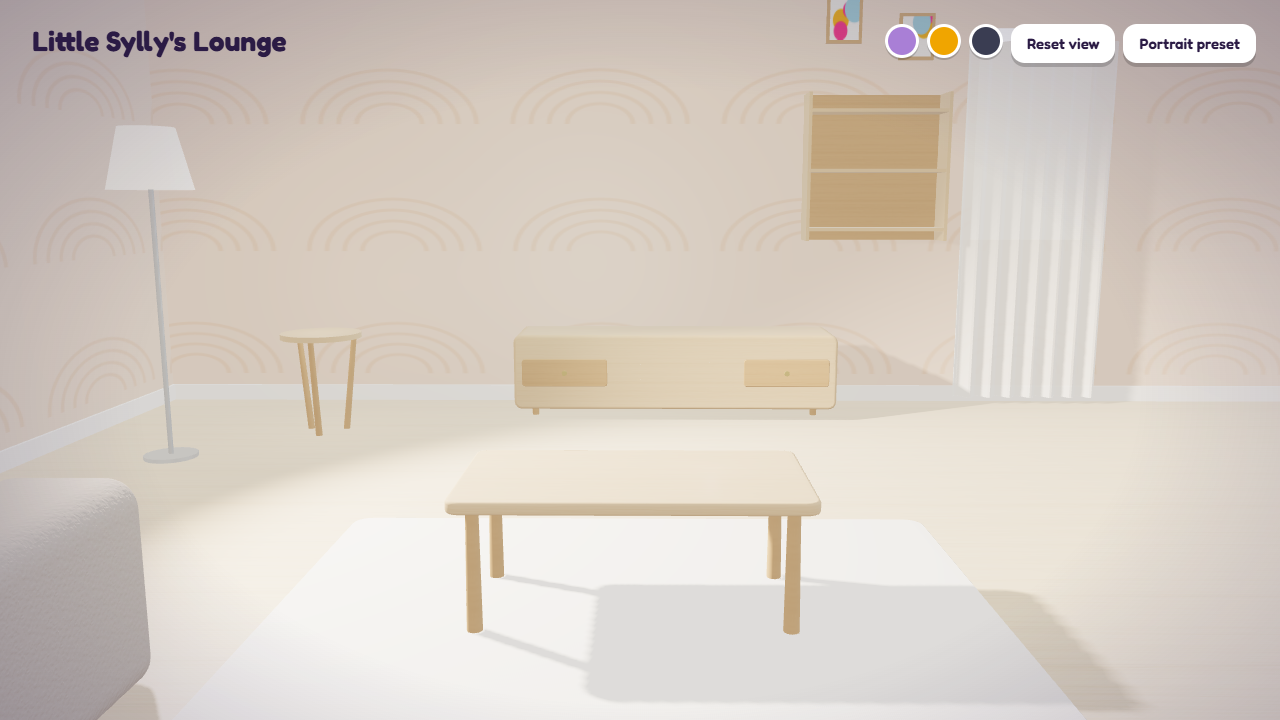
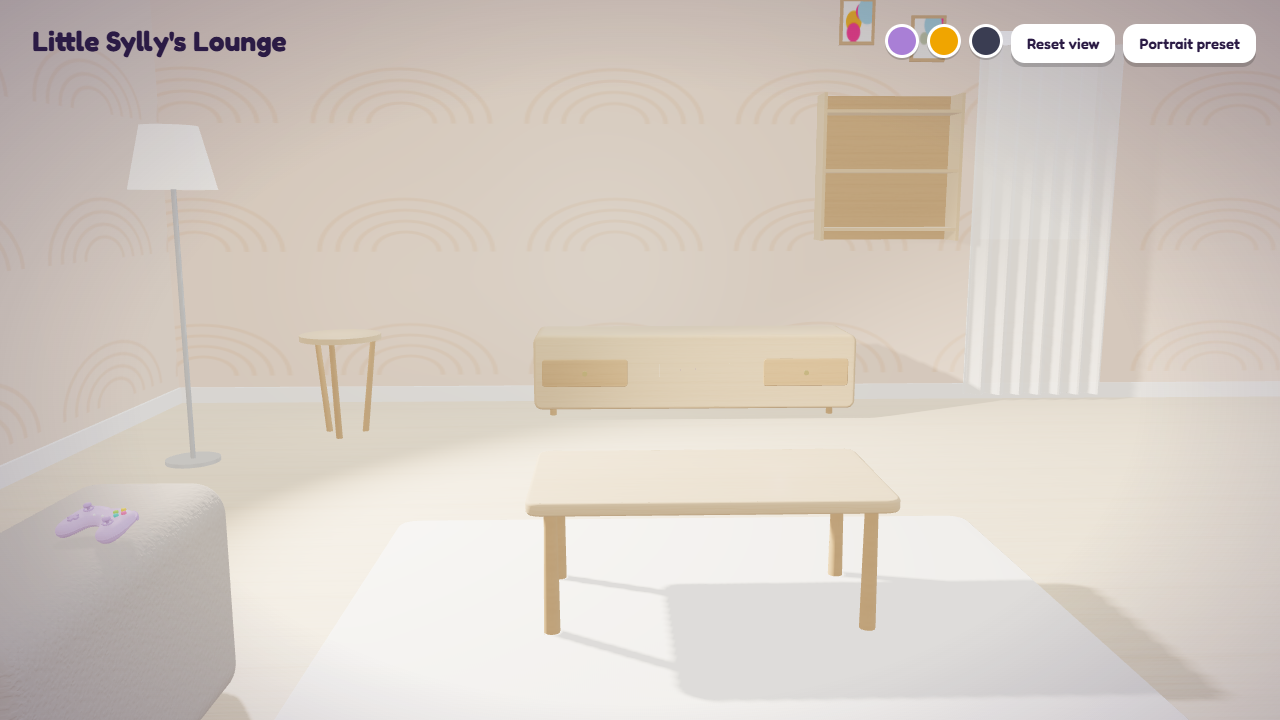
feat(premium): the controller on the couch arm
The controller sat at the correct armTopY but 95% outside the frustum: the couch arm is far enough left that the wide preset's left edge cut it. Fixed by shifting the camera left (x 0.15 -> -0.20) rather than moving the arm or the placement, so nothing geometric changed.

diff --git a/wip/premium/prm-props.js b/wip/premium/prm-props.js
@@ -106,6 +106,33 @@
 
   // ── builders are appended below by Tasks 5–9 ──────────────────────────────
 
+  /* The player's controller: the shipped geometry, mounted with the design's
+     flat colours. Stickers and the plate outline come with the production
+     round (the atlas painter lives in js/controller.js). Never monochrome. */
+  function prmBuildController(lib, design, CB) {
+    const { THREE } = lib; const g = new THREE.Group(); prmTag(g, 'controller');
+    const geo = CB.buildBody(THREE, {});
+    const body = new THREE.Mesh(geo, lib.role('shell', design.shell)); body.name = 'body'; body.castShadow = body.receiveShadow = true;
+    const inner = new THREE.Group(); inner.name = 'rig'; inner.add(body);
+    CB.buildEars(THREE, lib.role('ears', design.ears)).forEach(m => inner.add(m));
+    const controls = CB.buildControls(THREE, geo); inner.add(controls.group);
+    controls.group.traverse(o => {
+      if (!o.isMesh || !o.material) return; o.castShadow = true;
+      const pd = o.parent && o.parent.name === 'D-pad';
+      if (o.name === 'L button' || o.name === 'R button' || o.name === 'D-pad' || pd || / stick$/.test(o.name) || / well$/.test(o.name)) {
+        o.material = o.material.clone(); o.material.userData.prmRole = 'buttons'; o.material.color.set(design.buttons);
+      }
+    });
+    /* Body units are ~4.6 wide; 0.036 makes it ~16.5 cm. Face up, leaning toward the camera. */
+    inner.scale.setScalar(0.036); inner.rotation.x = -Math.PI / 2 + 0.28;
+    inner.updateMatrixWorld(true);
+    const bb = new THREE.Box3().setFromObject(inner); inner.position.y = -bb.min.y;   // rest the lowest point on the group origin
+    g.add(inner);
+    g.userData.api = { tick() { return false; } };
+    return g;
+  }
+  PRM_BUILDERS.controller = (ctx) => prmBuildController(ctx.lib, ctx.design, ctx.ControllerBody);
+
   const api = { PRM_ACTIONS, PRM_TAB_ORDER, PRM_PLACES, PRM_BUILDERS, PRM_ATTRACT_LINES, prmBuildAll, prmMotion, prmEaseOutCubic, prmEaseOutBack, prmMesh, prmTag, prmAttract };
   if (typeof window !== 'undefined') window.PrmProps = api;
   if (typeof module !== 'undefined') module.exports = api;

diff --git a/wip/premium/verify-prm-props.js b/wip/premium/verify-prm-props.js
@@ -155,6 +155,21 @@ const PrmScene = require(path.join(ROOT, 'wip/premium/prm-scene.js'));
   ok(PrmScene.PRM_PRESETS.wide && PrmScene.PRM_PRESETS.portrait, 'both camera presets exist');
 }
 
+section('controller');
+{
+  const built = PrmProps.prmBuildAll(global.__prmCtx);
+  ok(built.controller, 'controller builds');
+  eq(built.controller.userData.prmId, 'controller', 'controller group is the pick node');
+  const roles = new Set(); built.controller.traverse(o => { if (o.isMesh && o.material.userData.prmRole) roles.add(o.material.userData.prmRole); });
+  ['shell', 'ears', 'buttons'].forEach(r => ok(roles.has(r), `controller carries a ${r} material`));
+  const shellM = built.controller.getObjectByName('body').material;
+  eq(shellM.color.getHexString(), '111111', 'shell takes design.shell');
+  built.controller.updateMatrixWorld(true);
+  const bb = new THREE.Box3().setFromObject(built.controller); const s = new THREE.Vector3(); bb.getSize(s);
+  ok(s.x > 0.12 && s.x < 0.22, `controller is hand-sized in metres (x ${s.x.toFixed(3)})`);
+  near(bb.min.y, 0, 0.02, 'controller rests on its group origin (base at y≈0)');
+}
+
 // Later tasks append their sections above this line.
 console.log(`\n${pass} passed, ${fail} failed`);
 process.exit(fail ? 1 : 0);

diff --git a/wip/premium/prm-scene.js b/wip/premium/prm-scene.js
@@ -9,7 +9,7 @@
 // ═══════════════════════════════════════════════════════════════════════════
 (function () {
   const PRM_PRESETS = {
-    wide:     { pos: [0.15, 1.30, 3.40], look: [0.10, 0.50, -1.55], fov: 40 },
+    wide:     { pos: [-0.20, 1.30, 3.40], look: [-0.05, 0.50, -1.55], fov: 40 },
     portrait: { pos: [0.00, 1.55, 1.75], look: [0.00, 0.45,  0.25], fov: 52 },
   };
   const PRM_REQUIRED = ['games', 'stickers', 'design', 'lampPanels', 'music', 'enterTV', 'enterShelves', 'openWorkshop', 'openSound', 'openSwitcher'];
